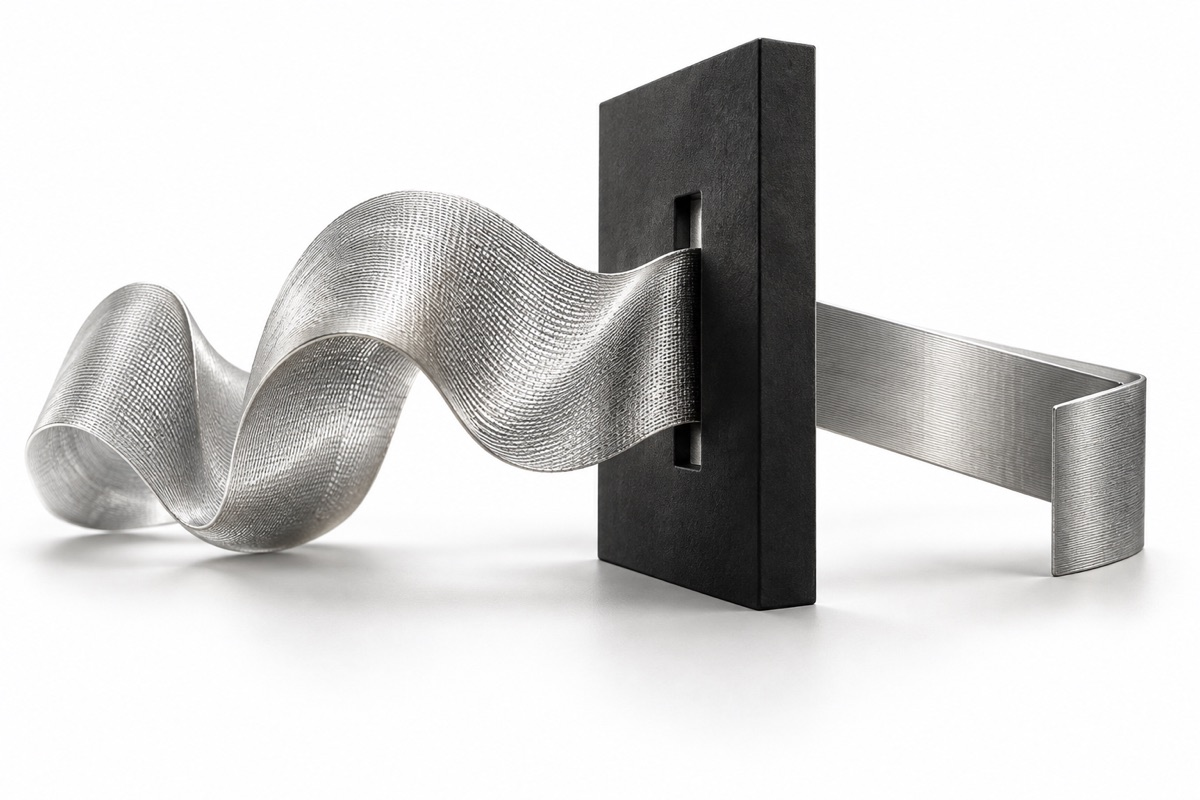
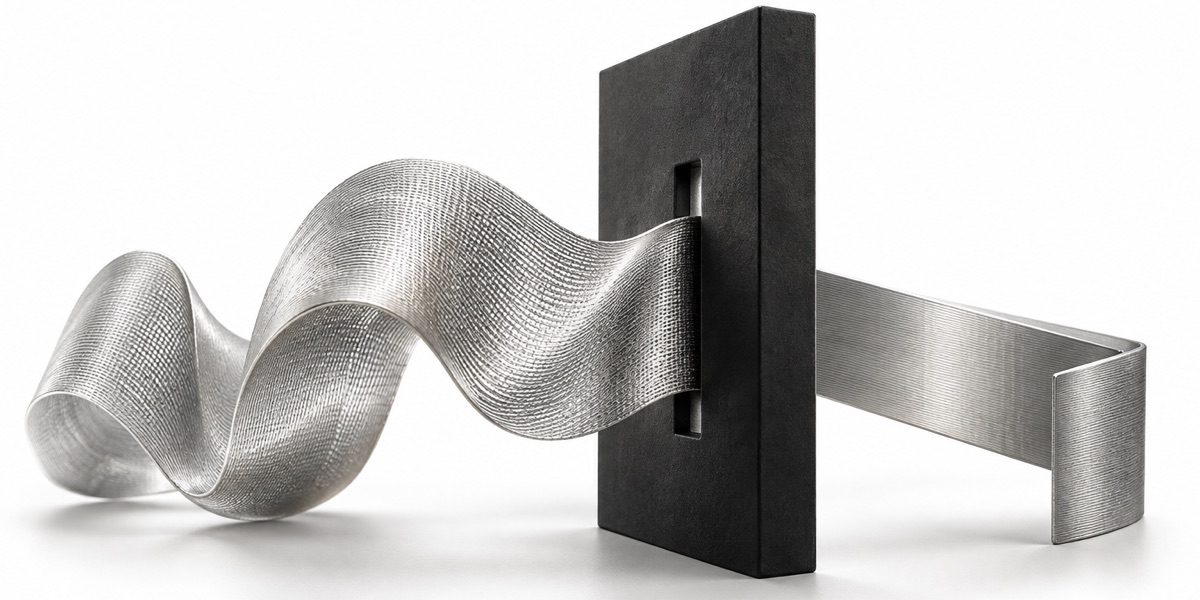
Expand the MOT technical showcase

diff --git a/docs/architecture.md b/docs/architecture.md
@@ -1,6 +1,6 @@
 # MOT architecture
 
-[← Back to MOT](../README.md)
+[Product overview](../README.md) · [Product blueprint](blueprint.md)
 
 MOT has two audio pipelines with different lifetimes. Dictation is a short session that usually ends in another app's text field. A meeting is a recording with two audio tracks, notes, timestamped excerpts, and a durable record that can be searched later.
 
@@ -14,6 +14,7 @@ MOT has two audio pipelines with different lifetimes. Dictation is a short sessi
 | Local recognition | Whisper runs locally. The meeting path can use a Core ML recognizer when ready and can fall back to Whisper for final transcription. Live drafts depend on the Core ML recognizer being available. |
 | Google Gemini API | Optional streaming dictation, separate grammar review, and optional meeting summaries. The user's Google project provides the API key and determines usage limits. |
 | SQLite and read workers | Local state for dictation and meetings. Dedicated workers handle history and meeting-library reads. |
+| Local MCP server | Opt-in standard input/output interface. A connected client can read saved dictation and meeting text through read-only database connections. |
 
 ## Dictation
 
@@ -24,11 +25,50 @@ MOT has two audio pipelines with different lifetimes. Dictation is a short sessi
 
 ## Meetings
 
+```mermaid
+sequenceDiagram
+    actor User
+    participant App as MOT desktop
+    participant Capture as Swift audio capture
+    participant Local as Local recognizer
+    participant Store as SQLite library
+    participant Google as Gemini API
+    User->>App: Start recording
+    App->>Capture: Capture microphone and system audio
+    Capture-->>App: Audio tracks
+    App->>Local: Transcribe tracks on device
+    Local-->>App: Timestamped segments
+    App->>Store: Save meeting and transcript
+    User->>App: Search or export
+    App->>Store: Read matching segments
+    Store-->>App: Meeting and excerpts
+    opt User confirms summary
+        App->>Google: Send transcript text
+        Google-->>App: Return summary
+    end
+```
+
 1. The user creates a meeting note and starts recording. Capture preserves the microphone and system audio tracks separately.
 2. The meeting recognizer processes the tracks locally. The app uses the channel to label timestamped segments **Me** and **Others**. Multiple remote participants can share the **Others** channel.
 3. Completed segments and meeting notes live in SQLite. The library indexes text with FTS5 and can page through results using a cursor. A read worker serves library queries separately from capture and writes.
 4. A user can search across meetings or within one transcript, copy an excerpt, and export Markdown. The full meeting Markdown export includes the transcript, notes, and available summary content.
 5. To generate a summary, the user confirms a separate Google request from the meeting. MOT sends transcript text for the summary. Summary quotations are checked against source excerpts before the result is saved.
+
+### How library search works
+
+The query can combine search text, a person filter and a folder filter. The FTS5 trigram index narrows candidates for eligible queries, then the reader checks the canonical text for a match. Results include an excerpt when one is available. A cursor carries the position for the next page.
+
+## Local MCP interface
+
+An MCP client connected from the desktop preview can follow these read-only flows.
+
+| Task | Tool sequence |
+| --- | --- |
+| Retrieve a dictation | Use `search_dictations` and pass the chosen item ID to `get_dictation`. |
+| Read a meeting | Use `list_meetings` for a day, choose a result and call `get_meeting_transcript`. Follow the transcript cursor for additional excerpts. |
+| Read a saved summary | Use the same meeting ID with `get_meeting_summary`. |
+
+The server reads from the local profile. A connected client can receive the text it requests, so connect clients you trust to read saved dictations and meetings.
 
 ## Data handling by operation
 

diff --git a/docs/blueprint.md b/docs/blueprint.md
@@ -1,0 +1,44 @@
+# MOT product blueprint
+
+[Product overview](../README.md) · [Architecture](architecture.md)
+
+MOT gives speech two destinations. Dictation sends a short thought to the text field that needed it. The Notetaker turns a meeting into a record you can find and quote later.
+
+## Dictation
+
+| Step | What the user sees | What the app does |
+| --- | --- | --- |
+| Start | Hold the shortcut in a supported text field, or start from Dictation. | Start a microphone capture session and remember the intended destination for shortcut dictation. |
+| Speak | Choose Local Whisper or Google in Transcription settings. | Send microphone audio through the selected recognition path. The chosen writing style and rules apply where supported. |
+| Release | Text appears in the original field when delivery succeeds. | Check the destination before paste. Keep the recognized text in history so it can be copied later. |
+
+## Notetaker
+
+| Step | What the user sees | What the app does |
+| --- | --- | --- |
+| Record | Create a note and start recording. | Keep microphone input and Mac audio on separate tracks. |
+| Review | Open timed excerpts grouped by Me and Others. | Run speech recognition locally and save segments with timestamps and source channels. |
+| Find | Search across saved meetings or inside one transcript. | Query the local library and return matching meetings and excerpts. |
+| Export | Copy an excerpt or export Markdown. | Assemble the transcript and, for a full meeting export, the saved notes and available summary sections. |
+| Summarize | Confirm the optional Google summary request. | Send transcript text to Google on that request and validate returned quotations against the transcript. |
+
+## Design decisions
+
+| Decision | Reason | What it means in practice |
+| --- | --- | --- |
+| Separate dictation and meeting engine selection | Short dictations and long recordings have different storage and privacy needs. | Google dictation and local meeting transcription can be used on the same Mac. |
+| Track-level labels | The capture source provides a reliable distinction between the mic and system audio. | Me and Others identify audio channels. Several remote speakers can share the Others label. |
+| Save the draft before depending on paste | The user may switch focus before recognition finishes. | Dictation history gives the user another way to retrieve the text. |
+| Use an indexed local library | Browsing a library should remain separate from recording and writing. | A read worker pages through matches. An FTS5 index narrows candidates for supported queries. |
+
+## Preview status
+
+The repository shows the app's workflow and architecture. The four screenshots come from an isolated MOT profile with fictional data. The library smoke test searched for `Friday` and returned the Lunar Garden excerpt at `00:15`.
+
+| Area | Status |
+| --- | --- |
+| Desktop preview | Apple silicon. Meeting recording requires macOS 15 or later and capture permissions. |
+| Local and Google dictation | Engine selection is shown in the screenshots. Google requires the user's Google API key. |
+| Meeting library | Search, filtering and transcript display are available in the preview. Feature availability depends on local model setup and permissions. |
+| Distribution | Private preview. The public repository contains documentation and images. |
+

diff --git a/README.md b/README.md
@@ -4,9 +4,18 @@
 <h1 align="center">MOT</h1>
 <p align="center"><strong>Say it. Find it later.</strong></p>
 <p align="center">Voice dictation and searchable meeting transcripts for macOS.</p>
-<p align="center"><a href="#see-it-in-action">See it in action</a> · <a href="#transcription-engines">Transcription engines</a> · <a href="#architecture">Architecture</a> · <a href="#availability">Private preview</a></p>
 <p align="center">
-  <img src="assets/mot-banner.jpg" width="620" alt="A silver ribbon passes through a dark slit and comes out folded.">
+  <img alt="macOS on Apple silicon" src="assets/badges/macos.png" height="20">
+  <img alt="Private preview" src="assets/badges/preview.png" height="20">
+  <img alt="Swift" src="assets/badges/swift.png" height="20">
+  <img alt="Electron" src="assets/badges/electron.png" height="20">
+  <img alt="SQLite" src="assets/badges/sqlite.png" height="20">
+  <img alt="Local Whisper" src="assets/badges/whisper.png" height="20">
+  <img alt="Google Gemini" src="assets/badges/gemini.png" height="20">
+</p>
+<p align="center"><a href="#see-it-in-action">See it in action</a> · <a href="#transcription-engines">Transcription engines</a> · <a href="#architecture">Architecture</a> · <a href="docs/blueprint.md">Blueprint</a></p>
+<p align="center">
+  <img src="assets/mot-banner.jpg" width="100%" alt="A silver ribbon passes through a dark slit and comes out folded.">
 </p>
 
 ## See it in action
@@ -73,7 +82,37 @@ flowchart LR
 - **Meeting storage and search.** The local SQLite store keeps notes and timestamped transcript segments. An FTS5 index supports library queries. Separate read workers keep search and history queries off the main process.
 - **Text delivery.** Dictation checks the destination before pasting. The result stays in history for manual copy when the app cannot safely return text to the original field.
 
-[Read the architecture and data-flow notes →](docs/architecture.md)
+### Architecture as pseudocode
+
+These examples describe the control flow. For the runtime boundaries, data handling, and a sequence diagram, see the [architecture notes](docs/architecture.md).
+
+```python
+def finish_dictation(session):
+    if session.engine == "google":
+        draft = session.google_stream.finish()
+    else:
+        draft = whisper.transcribe(session.audio)
+
+    text = apply_selected_style(draft, session)
+    history.save(text)
+    if session.started_from_shortcut and destination_is_still_focused(session.target):
+        paste_into_original_field(text, session.target)
+
+
+def finish_meeting(recording):
+    segments = []
+    for track in recording.microphone_and_system_tracks:
+        segments.extend(transcribe_on_device(track))
+    transcript = order_by_timestamp(segments)
+    library.save(recording.notes, transcript)
+    return transcript
+```
+
+[Read the product blueprint →](docs/blueprint.md)
+
+## For MCP clients
+
+The private preview includes a local, opt-in MCP server over standard input and output. Connected clients can search saved dictations, list meetings, and read the chosen transcript or saved summary. See the [read-only tool flow](docs/architecture.md#local-mcp-interface).
 
 ## Availability
 
